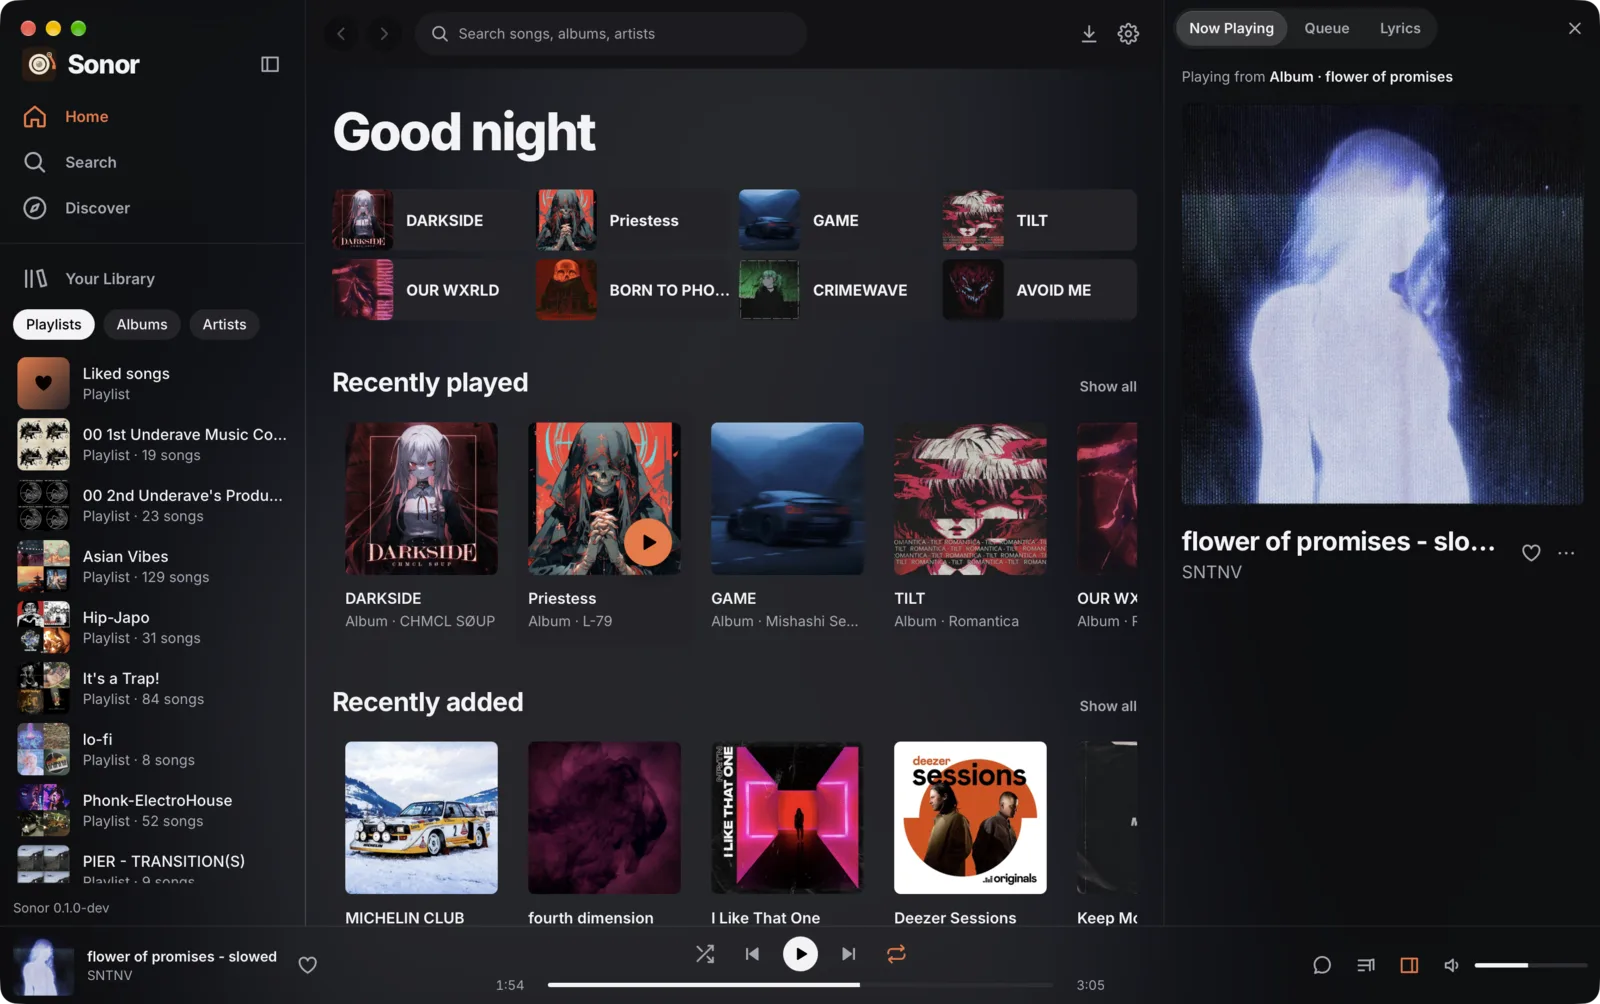
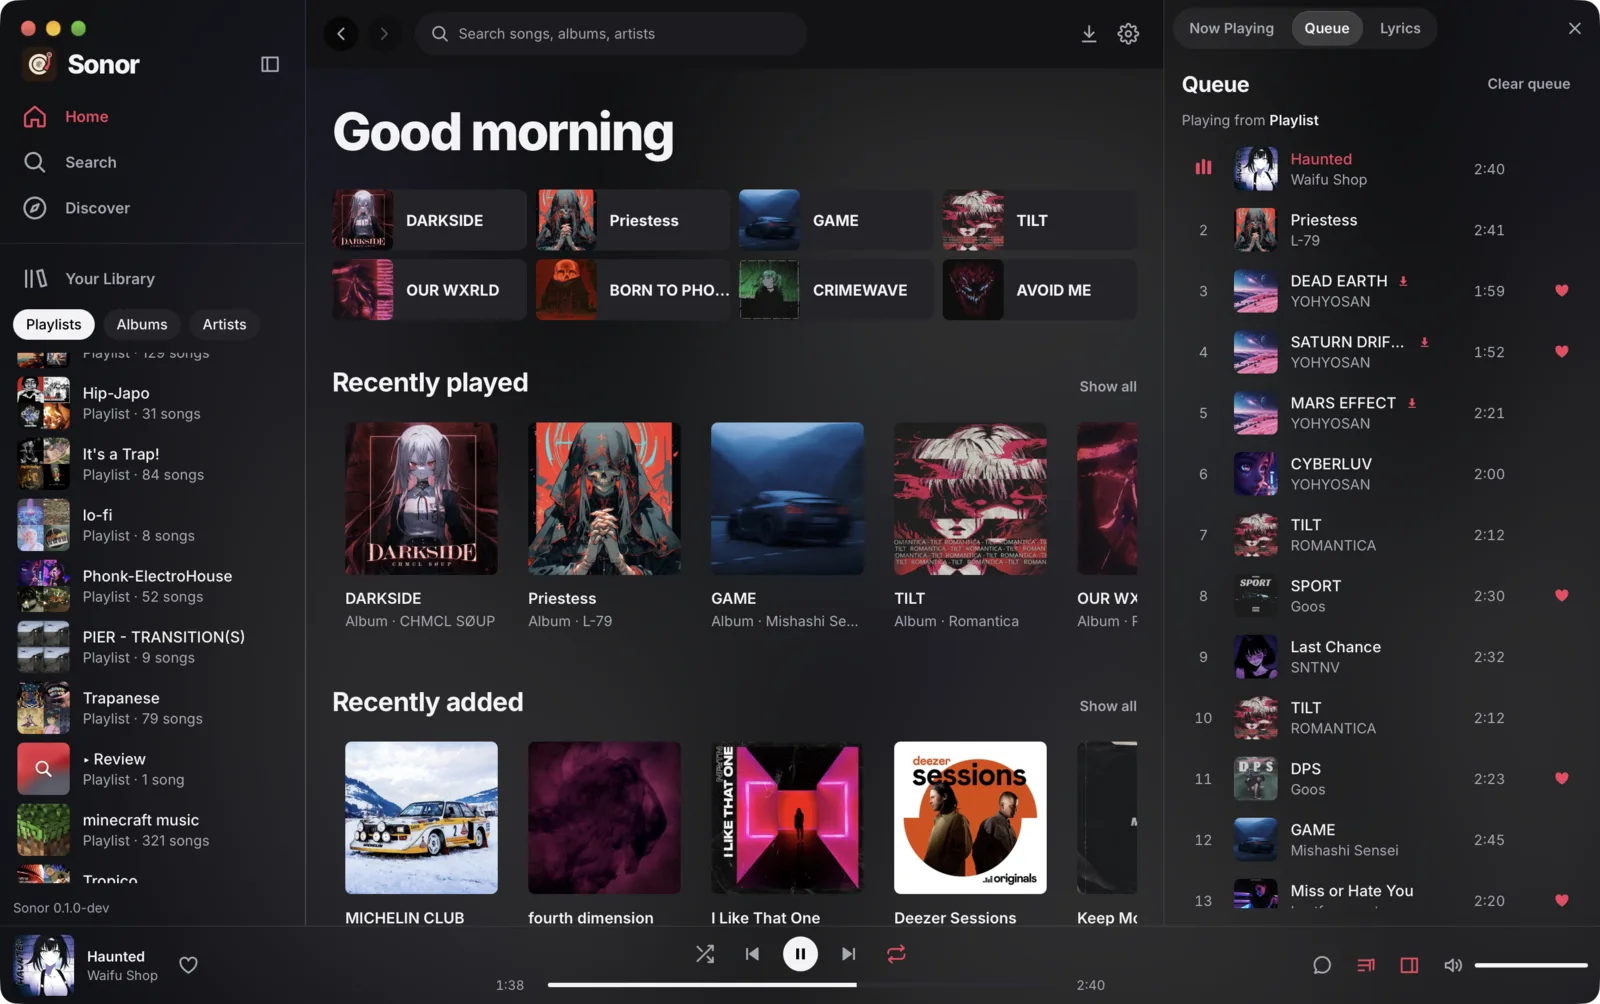
feat(site): queue screenshots and the public TestFlight link (#3)

diff --git a/site/src/components/Downloads.tsx b/site/src/components/Downloads.tsx
@@ -1,5 +1,5 @@
 import { useEffect, useState, type KeyboardEvent } from "react";
-import { FORMAT_LABELS, RELEASES_PAGE, groupByOS, pickFile, type DownloadFile } from "../downloads";
+import { FORMAT_LABELS, RELEASES_PAGE, TESTFLIGHT, groupByOS, pickFile, type DownloadFile } from "../downloads";
 import { detectInBrowser } from "../browser-platform";
 import { parseOS, type OS, type Platform } from "../platform";
 import type { Downloads } from "../../pages/index/+data";
@@ -68,10 +68,10 @@ function primaryFor(platform: Platform, downloads: Downloads | null): Primary {
   const name = OS_NAMES[os];
   if (os === "ios") {
     return {
-      label: "iPhone beta, by invitation",
-      href: "#download",
+      label: "Join the iPhone beta",
+      href: TESTFLIGHT,
       file: false,
-      meta: "TestFlight beta by invitation · App Store coming",
+      meta: "Public TestFlight beta · App Store coming",
     };
   }
   if (!downloads) {
@@ -199,7 +199,8 @@ function Panel({ os, note, downloads, hidden }: { os: Exclude<OS, "unknown">; no
       {os === "ios" ? (
         <div className="soon">
           <p>
-            <b>TestFlight beta, by invitation.</b> The App Store release is coming.
+            <b>Public TestFlight beta.</b> Install TestFlight, then{" "}
+            <a href={TESTFLIGHT}>join the Sonor beta</a>. The App Store release is coming.
           </p>
         </div>
       ) : files.length > 0 ? (

diff --git a/site/src/screenshots.ts b/site/src/screenshots.ts
@@ -18,15 +18,15 @@ export const SCREENSHOTS: Screenshot[] = [
   {
     id: "home",
     caption: "Home",
-    alt: "Sonor's home screen: album grids for recently played and recently added music, with the now-playing panel on the right.",
+    alt: "Sonor's home screen: quick picks and album grids for recently played and recently added music, with the play queue on the right.",
     ready: true,
     desktop: "/screenshots/desktop-home-dark.webp",
   },
   {
-    id: "playlist",
-    caption: "Playlist",
-    alt: "A playlist page in Sonor: the playlist's header above its list of tracks, with title, album and time for each.",
+    id: "discover",
+    caption: "Discover",
+    alt: "Sonor's Discover page with an Octo server: mixes made for you, artist stations and charts, with the play queue on the right.",
     ready: true,
-    desktop: "/screenshots/desktop-playlist-dark.webp",
+    desktop: "/screenshots/desktop-discover-dark.webp",
   },
 ];

diff --git a/site/test/render.test.ts b/site/test/render.test.ts
@@ -86,8 +86,8 @@ describe("the rendered pages", () => {
 
   it("says iOS has no download yet, without a link", async () => {
     const { html } = await render("/", { "user-agent": UA.iphone });
-    expect(html).toContain("iPhone beta, by invitation");
-    expect(html).toContain("TestFlight beta by invitation · App Store coming");
+    expect(html).toContain("Join the iPhone beta");
+    expect(html).toContain("Public TestFlight beta · App Store coming");
     expect(html).not.toContain("Download for iPhone");
   });
 

diff --git a/site/src/downloads.ts b/site/src/downloads.ts
@@ -5,6 +5,8 @@
 import type { OS, Platform } from "./platform";
 
 export const RELEASES_PAGE = "https://github.com/sonorhq/sonor/releases";
+/** The public TestFlight link for the iPhone beta (1,000 testers at most). */
+export const TESTFLIGHT = "https://testflight.apple.com/join/4wTvkRjG";
 
 export interface ReleaseAsset {
   name: string;
